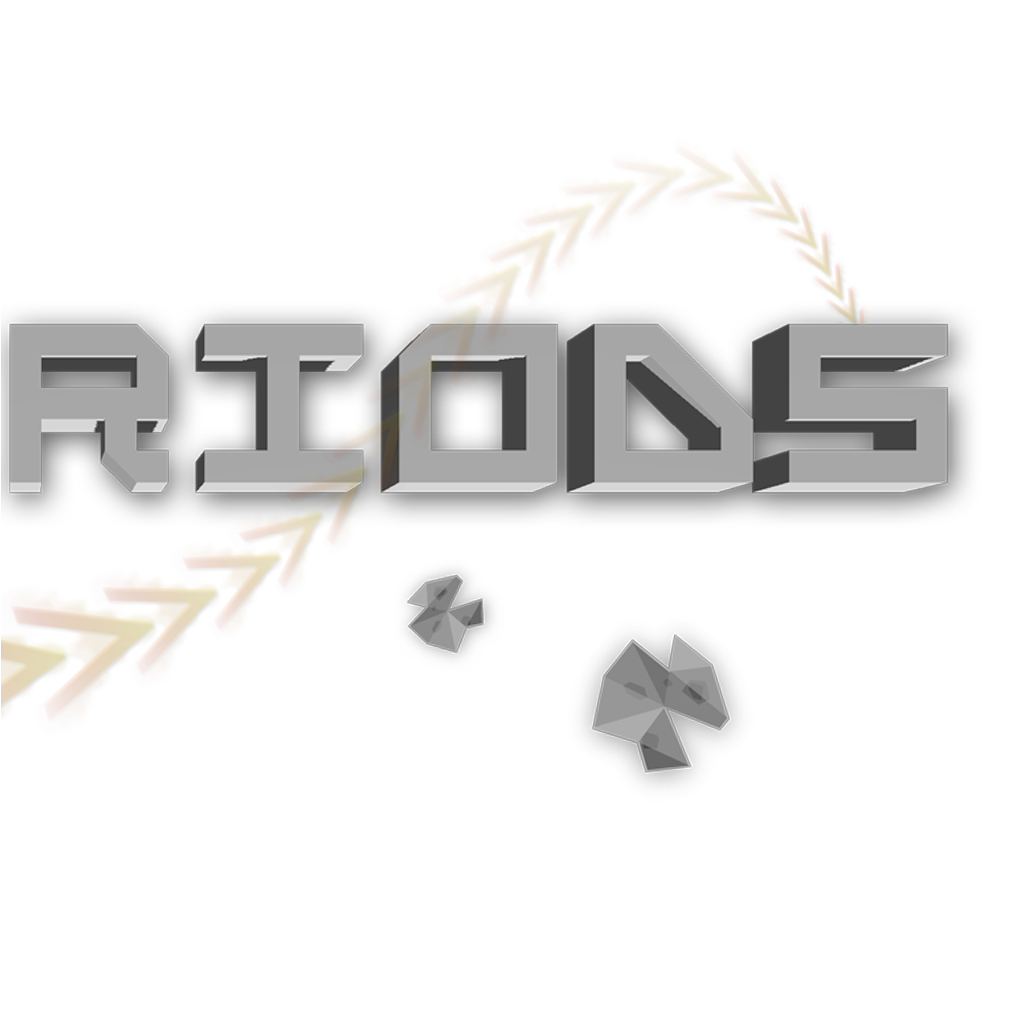
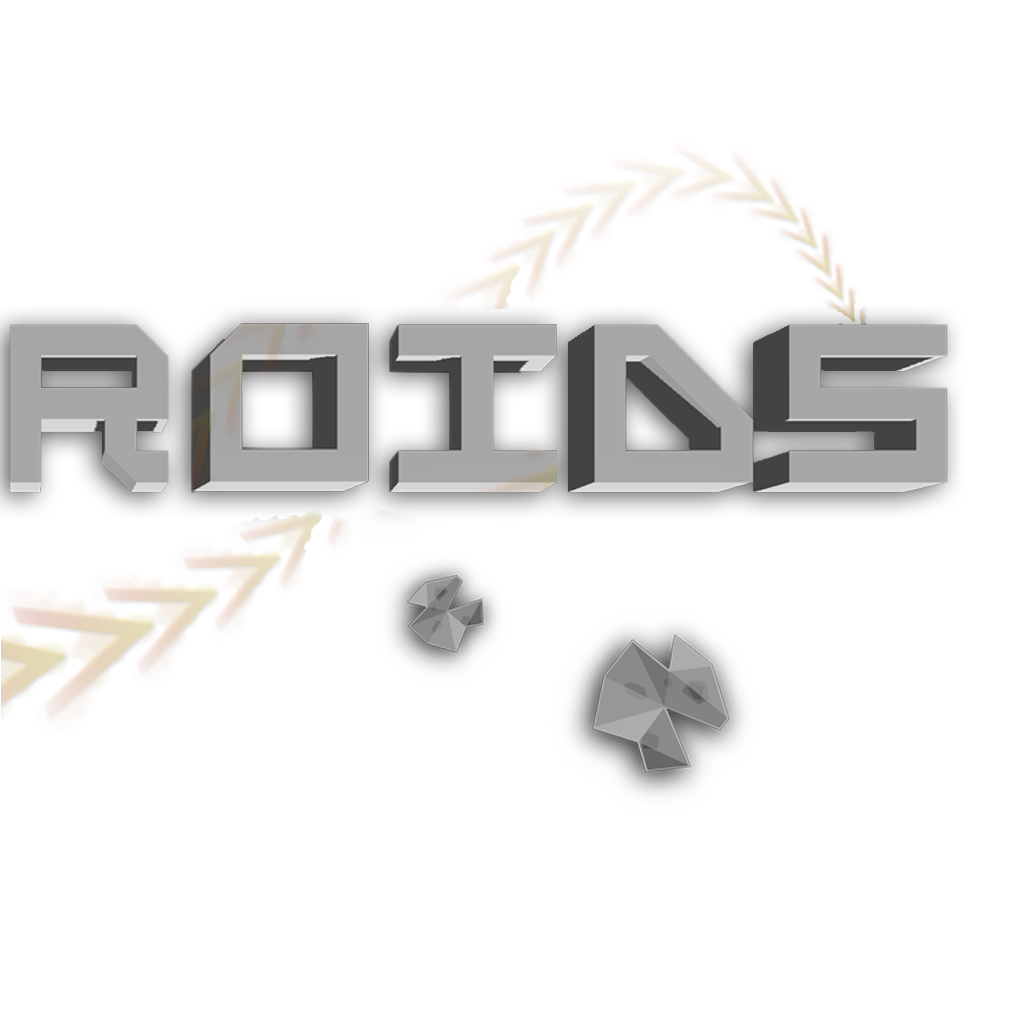
fixed a typo and got it ready to be submited on the android market

diff --git a/Broderoids-android/src/com/Broders/mygdxgame/MainActivity.java b/Broderoids-android/src/com/Broders/mygdxgame/MainActivity.java
@@ -12,7 +12,6 @@ public class MainActivity extends AndroidApplication {
         
         AndroidApplicationConfiguration cfg = new AndroidApplicationConfiguration();
         cfg.useGL20 = false;
-        cfg.numSamples = 16;
         
         initialize(new BaseGame(), cfg);
     }
